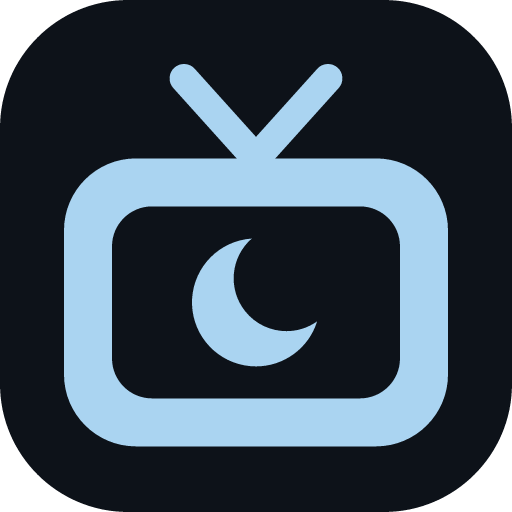
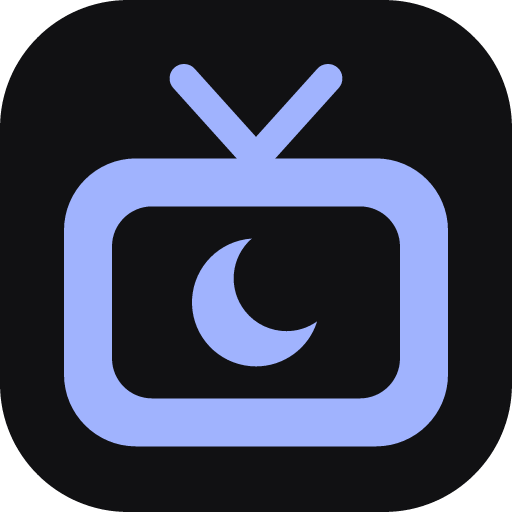
feat: アイコンを群青の配色にする
背景をほぼ無彩色の night-850、テレビと月の図形を fg-accent の明るい群青にして、アプリの新しい配色にそろえる。図形を塗りの濃い群青にしないのは、暗い背景との差が小さく、タブの小さなアイコンで沈むため。

Changed region(s): [[0.125, 0.125, 0.875, 0.875], [0.375, 0.4688, 0.625, 0.7188]]

diff --git a/frontend/scripts/icons.ts b/frontend/scripts/icons.ts
@@ -2,8 +2,8 @@ import { writeFileSync } from "node:fs";
 
 import { Resvg } from "@resvg/resvg-js";
 
-const night = "#0d1219";
-const moon = "#aad4f1";
+const night = "#111113";
+const moon = "#a0b3fe";
 
 const glyph = [
 	`<path d="M11.5 4.5 16 9.5l4.5-5" fill="none" stroke="${moon}" stroke-width="1.8" stroke-linecap="round" stroke-linejoin="round"/>`,
